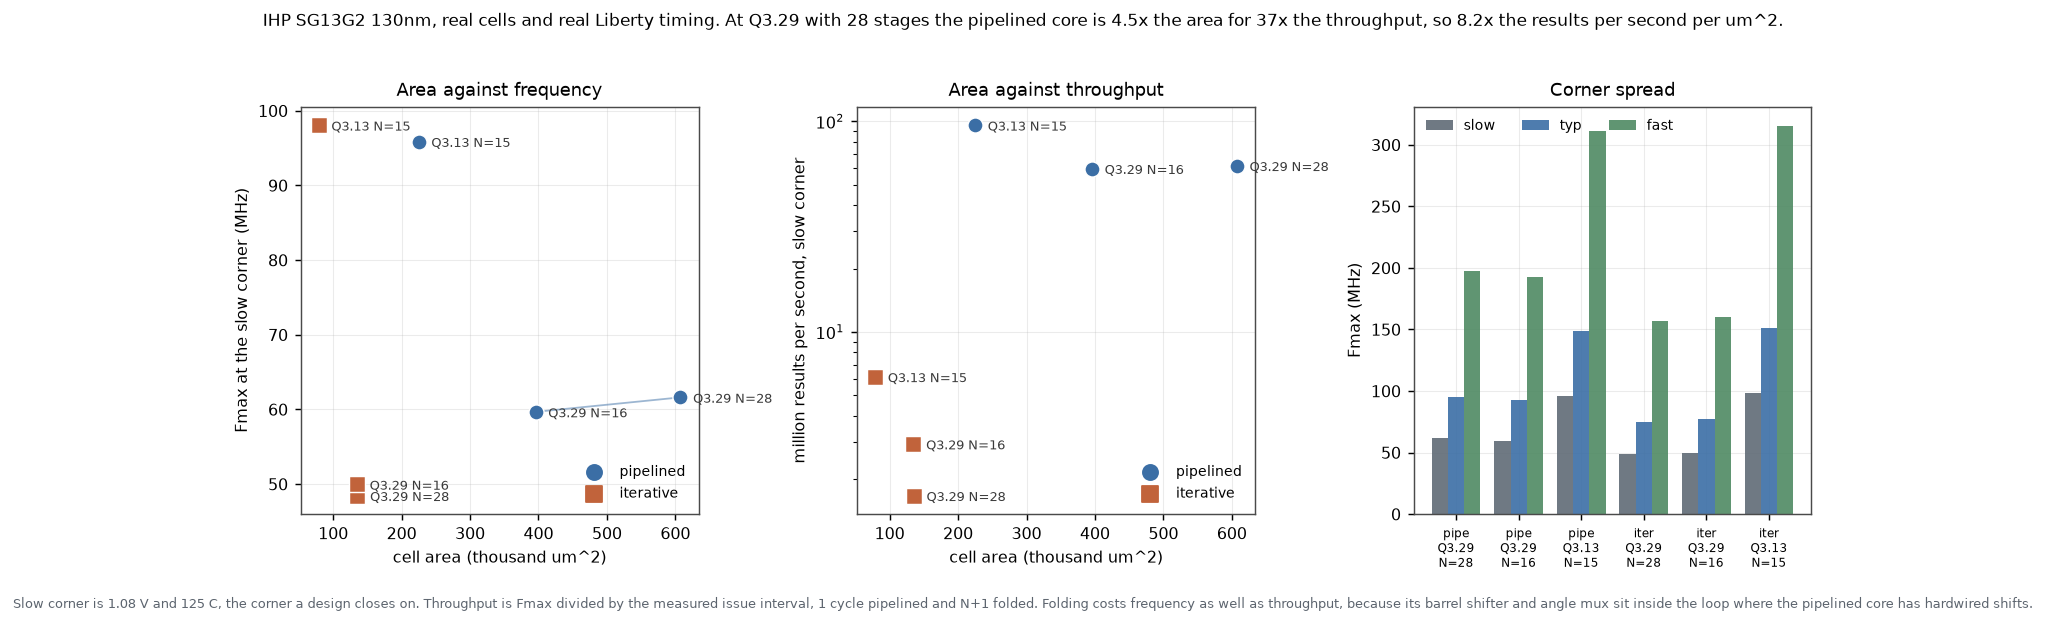
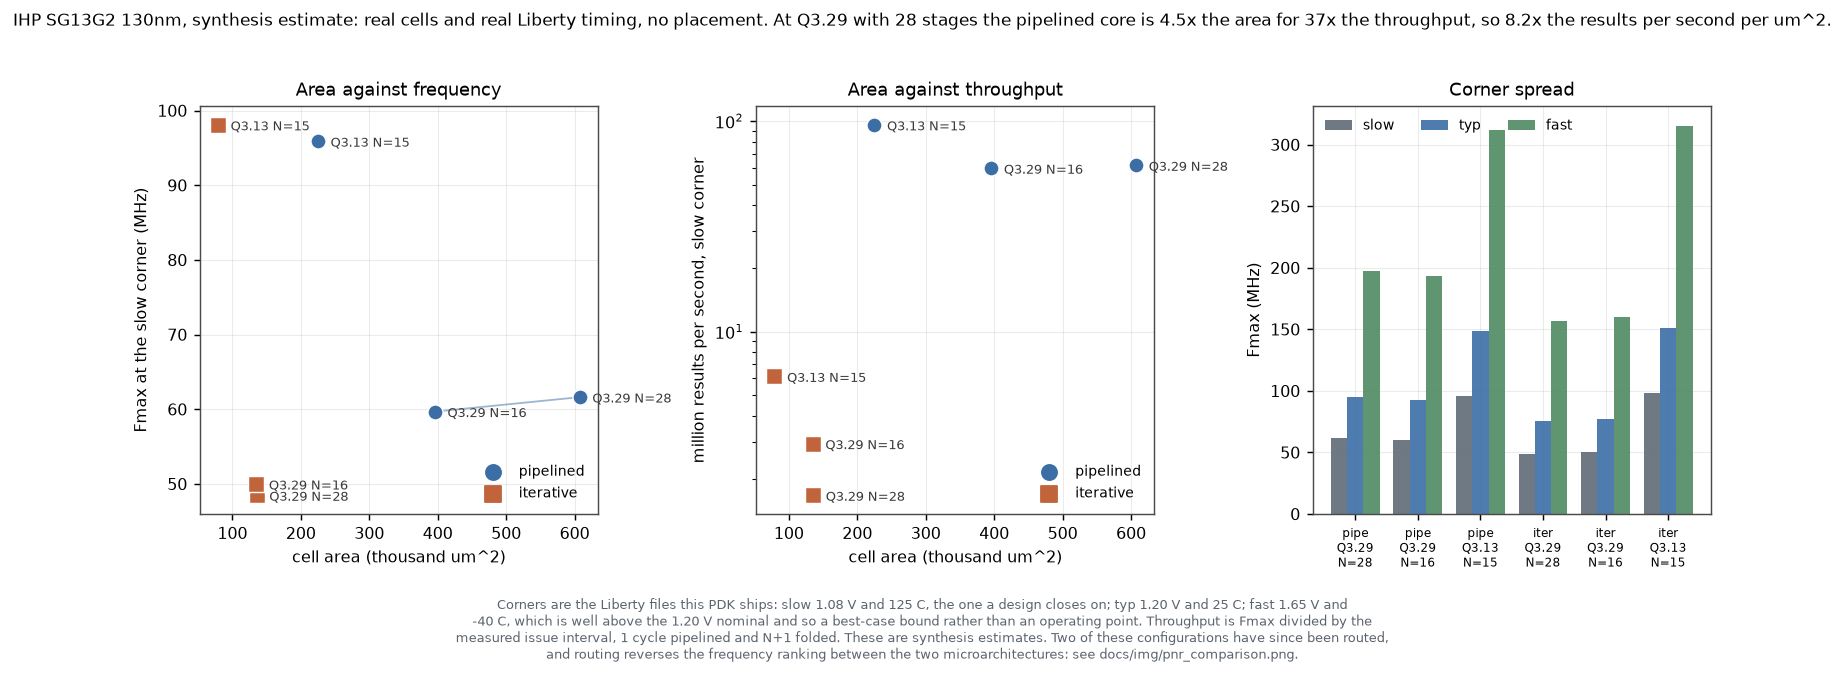
docs: name every corner, and stop the PPA figure asserting what routing reversed
Audit of the headline post-route numbers against docs/pnr/summary.json and
docs/pdk/summary.json: all 48 of them check out, including the per-variant die and
standard cell areas, utilisation, slow-corner Fmax, the synthesis-to-route deltas
and the wire-RC control. The formal claims are correctly scoped in all three places
that mention them. Two things were not stated as measured.

The typ and fast corner conditions appeared nowhere in the README, while the
six-configuration table quotes numbers at all three. The fast column is the one that
matters: it is sg13g2_stdcell_fast_1p65V_m40C.lib, so 1.65 V against a 1.20 V
nominal, which makes 197.3 MHz a best-case bound rather than an operating point. Now
stated, with the Liberty file for each column, and with the note that LibreLane names
its own fast corner 1p32V so the name and the Liberty disagree. The at-a-glance rows
now name the corner their post-route frequencies are at.

The PPA figure carried "Folding costs frequency as well as throughput" as a flat
claim about the design. That is what the synthesis estimate shows and routing
reverses it: post-route the folded core is 16 percent faster. Since a figure gets
screenshotted without its paragraph, the note now says it is a synthesis estimate,
names all three corner conditions, and points at the post-route comparison. The
suptitle says "synthesis estimate" too, because its 4.5x, 37x and 8.2x are the
synthesis ratios and the routed ones are 4.4x, 25x and 5.6x.

diff --git a/scripts/gen_plots.py b/scripts/gen_plots.py
@@ -655,16 +655,20 @@ def plot_ppa():
     pipe = next(r for r in rows if r["name"] == "pipe_q3_29_n28")
     itr = next(r for r in rows if r["name"] == "iter_q3_29_n28")
     fig.suptitle(
-        f"IHP SG13G2 130nm, real cells and real Liberty timing. At Q3.29 with 28 "
+        f"IHP SG13G2 130nm, synthesis estimate: real cells and real Liberty timing, "
+        f"no placement. At Q3.29 with 28 "
         f"stages the pipelined core is {pipe['area'] / itr['area']:.1f}x the area "
         f"for {pipe['mres'] / itr['mres']:.0f}x the throughput, so "
         f"{(pipe['mres'] / pipe['area']) / (itr['mres'] / itr['area']):.1f}x the "
         f"results per second per um^2.", y=1.03, fontsize=9.5)
-    note(fig, "Slow corner is 1.08 V and 125 C, the corner a design closes on. "
-              "Throughput is Fmax divided by the measured issue interval, 1 cycle "
-              "pipelined and N+1 folded. Folding costs frequency as well as "
-              "throughput, because its barrel shifter and angle mux sit inside the "
-              "loop where the pipelined core has hardwired shifts.")
+    note(fig, "Corners are the Liberty files this PDK ships: slow 1.08 V and 125 C, "
+              "the one a design closes on; typ 1.20 V and 25 C; fast 1.65 V and\n"
+              "-40 C, which is well above the 1.20 V nominal and so a best-case bound "
+              "rather than an operating point. Throughput is Fmax divided by the\n"
+              "measured issue interval, 1 cycle pipelined and N+1 folded. These are "
+              "synthesis estimates. Two of these configurations have since been "
+              "routed,\nand routing reverses the frequency ranking between the two "
+              "microarchitectures: see docs/img/pnr_comparison.png.")
     save(fig, "ppa_ihp_sg13g2.png")
 
 

diff --git a/README.md b/README.md
@@ -22,8 +22,8 @@ and two interchangeable microarchitectures that produce bit-identical results.
 | Format | Q3.29 in 32 bits by default, parameterised; Q3.13 in 16 bits also verified |
 | Accuracy | 4.5 LSB worst case for sin and cos, 1.5 RMS, measured against double precision |
 | Interfaces | OBI v1.6 subordinate over a 4 KB window, plus a valid/ready streaming port |
-| Pipelined core | 1 result per cycle, 78.6 MHz post-route, 1.954 mm2 of die on IHP 130nm |
-| Iterative core | 1 result per 29 cycles, 90.9 MHz post-route, 0.383 mm2, 5.1x smaller |
+| Pipelined core | 1 result per cycle, 78.6 MHz post-route at 1.08 V and 125 C, 1.954 mm2 of die on IHP 130nm |
+| Iterative core | 1 result per 29 cycles, 90.9 MHz post-route at the same corner, 0.383 mm2, 5.1x smaller |
 | Silicon | Real IHP SG13G2 130nm, the process Croc taped out in. Both variants routed to GDS and LVS clean; the folded one is DRC clean and the pipelined one has one Metal2 minimum-area violation. Area in um2 and Fmax at three corners |
 | Verification | 80 tests, 0 failures: 17,536 accuracy comparisons, 4,237 domain arguments, 28 OBI protocol tests, bit-identity between both cores over 900 operations, plus 13 concurrent assertions in the RTL |
 | Tooling | Verilator lint clean at `-Wall` over 10 configurations, Yosys plus OpenROAD over 6, both RV32 driver images link |
@@ -480,8 +480,23 @@ runs to 1.31x on cell area and 1.88x on frequency.
 | iterative, Q3.29, N=16 | 8,064 | 1,229 | 0.135 mm2 | 50.0 MHz | 77.0 | 159.8 | 2.94 M/s |
 | iterative, Q3.13, N=15 | 4,627 | 748 | 0.079 mm2 | 98.1 MHz | 150.9 | 315.3 | 6.13 M/s |
 
-Slow corner is 1.08 V and 125 C, the one a design has to close on. Throughput is Fmax
-divided by the measured issue interval, so it is a real rate, not a peak claim.
+The three corners are the Liberty files `scripts/run_pdk.py` reads, and their
+conditions are recorded alongside every number in `docs/pdk/summary.json`:
+
+| Column | Liberty | Conditions |
+|---|---|---|
+| slow | `sg13g2_stdcell_slow_1p08V_125C.lib` | 1.08 V, 125 C, the corner a design has to close on |
+| typ | `sg13g2_stdcell_typ_1p20V_25C.lib` | 1.20 V, 25 C |
+| fast | `sg13g2_stdcell_fast_1p65V_m40C.lib` | **1.65 V**, -40 C |
+
+The fast column is worth reading carefully: 1.65 V is well above the 1.20 V nominal, so
+those figures are a best-case bound and not an operating point anyone would design to.
+It is quoted because it is the fast Liberty this PDK ships, not because the design runs
+there. Note also that LibreLane names its own fast corner `nom_fast_1p32V_m40C`, so the
+name and the Liberty disagree about the voltage; slow and typ agree between the two.
+
+Throughput is Fmax divided by the measured issue interval, so it is a real rate, not a
+peak claim.
 
 ![Area, frequency and throughput on IHP SG13G2](docs/img/ppa_ihp_sg13g2.png)
 
